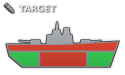
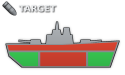
Alt-Ansicht untereinander, groessere scharfe Beschriftung, Granate auf Schildhoehe
- Target oben, Me darunter (Silhouetten und gezeichnete Rueckfall-Bilder)
- label_*.png 186x24: Mini-Icon 14 px + Text 13 px (1,5-fach) mittig,
  Text in Zielgroesse gezeichnet statt verkleinert
- Granate per SHELL_SCALE/SHELL_SHIFT auf die Hoehe des Schilds gebracht

Claude-Session: https://claude.ai/code/session_01Cjegtnu2M8VwjBFAmFpPtC

Changed region(s): [[0.0, 0.0, 0.144, 0.2133]]

diff --git a/tools/make_detail_icons.py b/tools/make_detail_icons.py
@@ -125,16 +125,34 @@ def render(key, combo):
     return img.reduce(SUPERSAMPLE)
 
 
-LABEL_IMAGE = (70, 16)  # nur Mini-Icon + Beschriftung, fuer die Silhouetten-Ansicht
+# Beschriftung der Silhouetten-Ansicht: Mini-Icon + Text, waagerecht mittig ueber der
+# Silhouette (Breite wie silhouetteWidth in Overmatcher.unbound), beide senkrecht mittig.
+# Der Text wird direkt in Zielgroesse gezeichnet (FreeType-Hinting) statt verkleinert -> scharf.
+LABEL_IMAGE = (186, 24)
+LABEL_TEXT_SIZE = 13      # 1,5 x 8,5 px
+LABEL_ICON = 14           # Kantenlaenge Mini-Icon, passend zur Versalhoehe des Texts
+LABEL_ICON_GAP = 4
 
 
 def render_label(key):
     """Mini-Icon + Beschriftung allein (Silhouetten-Ansicht: Schiff kommt aus dem Spiel)."""
     text, kind = LABELS[key]
-    img = Image.new('RGBA', (W, H), (0, 0, 0, 0))
-    img.alpha_composite(_mini_icon(kind), (2 * SUPERSAMPLE, 1 * SUPERSAMPLE))
-    img.alpha_composite(_label(text))
-    return img.crop((0, 0, LABEL_IMAGE[0] * SUPERSAMPLE, LABEL_IMAGE[1] * SUPERSAMPLE)).reduce(SUPERSAMPLE)
+    w, h = LABEL_IMAGE
+    font = ImageFont.truetype(LABEL_FONT, LABEL_TEXT_SIZE)
+    box = font.getbbox(text, anchor='ls')     # Versalien: Oberkante bis Grundlinie
+    text_w, cap_h = box[2] - box[0], -box[1]
+    total = LABEL_ICON + LABEL_ICON_GAP + text_w
+    x0 = (w - total) // 2
+    img = Image.new('RGBA', (w, h), (0, 0, 0, 0))
+    draw = icons.shell if kind == 'shell' else icons.shield
+    icon = draw(icons.NEUTRAL['grey']).resize((LABEL_ICON * SUPERSAMPLE,) * 2, Image.LANCZOS).reduce(SUPERSAMPLE)
+    img.alpha_composite(icon, (x0, (h - LABEL_ICON) // 2))
+    baseline = (h + cap_h) // 2
+    tx = x0 + LABEL_ICON + LABEL_ICON_GAP - box[0]
+    d = ImageDraw.Draw(img)
+    d.text((tx + 1, baseline + 1), text, font=font, fill=(10, 12, 14, 200), anchor='ls')  # harter Schatten
+    d.text((tx, baseline), text, font=font, fill=LABEL_COLOR + (255,), anchor='ls')
+    return img
 
 
 def main():

diff --git a/tools/make_ampel_icons.py b/tools/make_ampel_icons.py
@@ -33,6 +33,8 @@ OUTLINE = (24, 26, 28)
 METAL = (168, 172, 176)
 GUIDE_RING = (92, 94, 98)
 LIGHT = (212, 214, 216)
+SHELL_SCALE = 1.28
+SHELL_SHIFT = 0.03  # Granate liegt sonst etwas links oben (Heck kuerzer als Spitze)
 
 
 def _grid():
@@ -65,8 +67,9 @@ def _outlined(rgb, alpha, px=1.1):
 
 def shell(color):
     x, y = _grid()
-    u = ((x - 0.5) + (y - 0.5)) / np.sqrt(2)    # entlang der Achse, Spitze bei +u
-    v = (-(x - 0.5) + (y - 0.5)) / np.sqrt(2)   # quer zur Achse
+    # SHELL_SCALE: gleiche Hoehe wie der Schild (sichtbar ~28 von 29 px)
+    u = ((x - 0.5 - SHELL_SHIFT) + (y - 0.5 - SHELL_SHIFT)) / np.sqrt(2) / SHELL_SCALE    # entlang der Achse, Spitze bei +u
+    v = (-(x - 0.5 - SHELL_SHIFT) + (y - 0.5 - SHELL_SHIFT)) / np.sqrt(2) / SHELL_SCALE   # quer zur Achse
     r, tail, ogive, tip = 0.15, -0.40, 0.12, 0.43
     t = np.clip((u - ogive) / (tip - ogive), 0, 1)
     radius = np.where(u < ogive, r, r * np.sqrt(np.clip(1 - t ** 1.6, 0, 1)))

diff --git a/docs/KONZEPT.md b/docs/KONZEPT.md
@@ -37,8 +37,8 @@ Layout (rechts unter dem Fadenkreuz, linke obere Ecke Standard x +30, y +8):
 - ohne Alt: Granate | Schild (29×29) kompakt, 4 px Abstand, immer sichtbar (solange das
   Fadenkreuz sichtbar ist); Ampelfarben nur bei aufgeschaltetem, bewertetem Ziel, sonst grau
   (kein Ziel, Zerstörer/Träger/U-Boot, keine Daten)
-- mit Alt (nur mit Bewertung, sonst bleiben die grauen Symbole): die Symbole werden ausgeblendet, an ihrer Stelle zwei Schiffe (125×75, 8 px
-  Abstand), freistehend ohne Hintergrund, Rumpf metallisch grau mit dunkler Kontur wie die
+- mit Alt (nur mit Bewertung, sonst bleiben die grauen Symbole): die Symbole werden ausgeblendet, an ihrer Stelle zwei Schiffe untereinander
+  (oben Target, unten Me; 125×75, 4 px Abstand), freistehend ohne Hintergrund, Rumpf metallisch grau mit dunkler Kontur wie die
   Icons; oben links graue Mini-Granate + „TARGET“ = Ziel (ich → Ziel, unter der Granate) bzw.
   Mini-Schild + „ME“ = eigenes Schiff (Ziel → ich, unter dem Schild); 16 Bilder
   `detail_<me|target>_<b>_<m>_<d>.png`, Schrift DejaVu Sans Bold 8,5 px (freie Lizenz);
@@ -51,7 +51,8 @@ Ziel über `vehicleInfo.shipInfoEntityId`). Lagen mit Maske + `colorTransform`: 
 0–22 %, Mitte 22–78 %, Bug 78–100 % der Bildbreite (Näherung, für alle Schiffe gleich);
 Deck = alles oberhalb der Decklinie (`deckLine` 0,71 der Bildhöhe, gemessen an Rhode Island,
 Vermont, Trento; der erste Prototyp mit Balken über der Silhouette passte optisch nicht).
-Beschriftung `label_<target|me>.png`. Ohne Silhouetten-Namen gelten die `detail_*.png`.
+Beschriftung `label_<target|me>.png` (186×24, Mini-Icon 14 px + Text 13 px mittig, Text in
+Zielgröße gezeichnet für Schärfe). Granate auf Schildhöhe skaliert (`SHELL_SCALE`). Ohne Silhouetten-Namen gelten die `detail_*.png`.
 Die Silhouetten werden nicht mitgeliefert (Spieldateien), passen also nach jedem Patch.
 PenetrationCalculator liegt links unter dem Fadenkreuz (rechtsbündig bis x −19, ab y +34).
 
